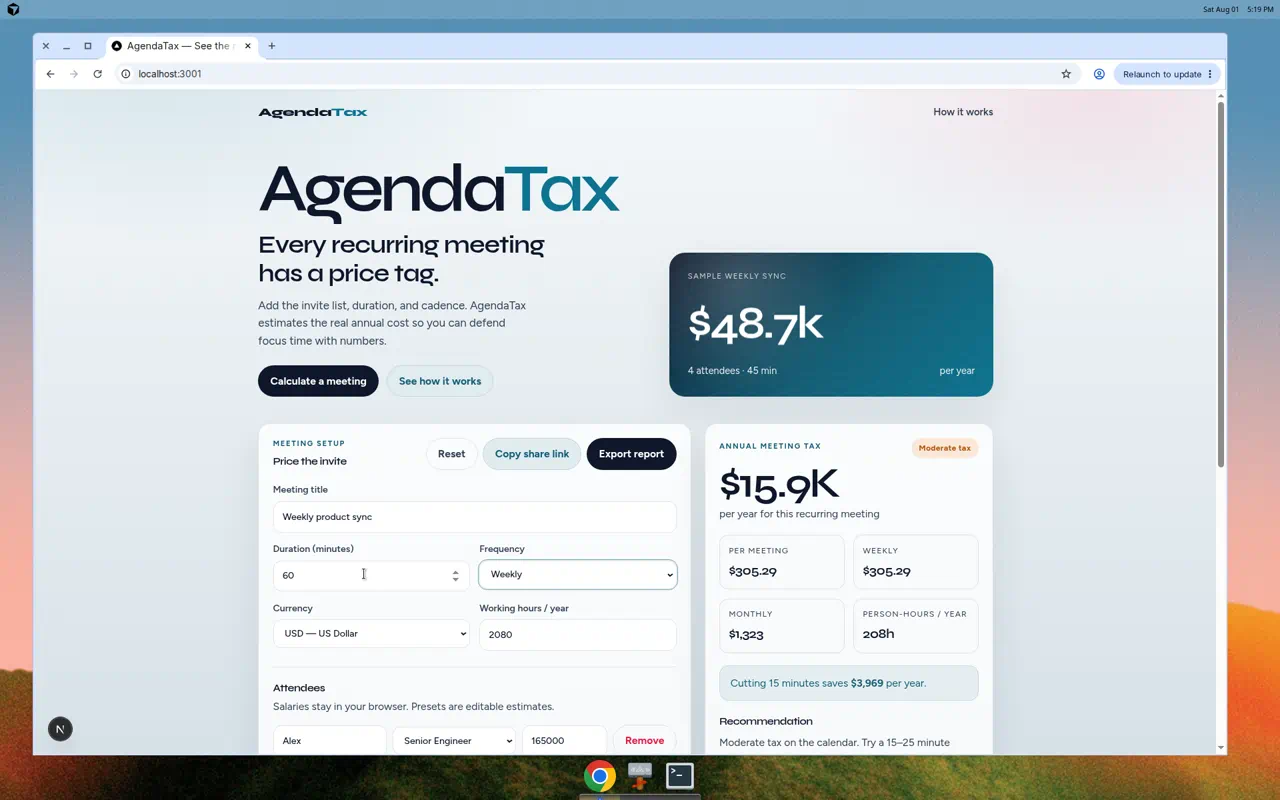
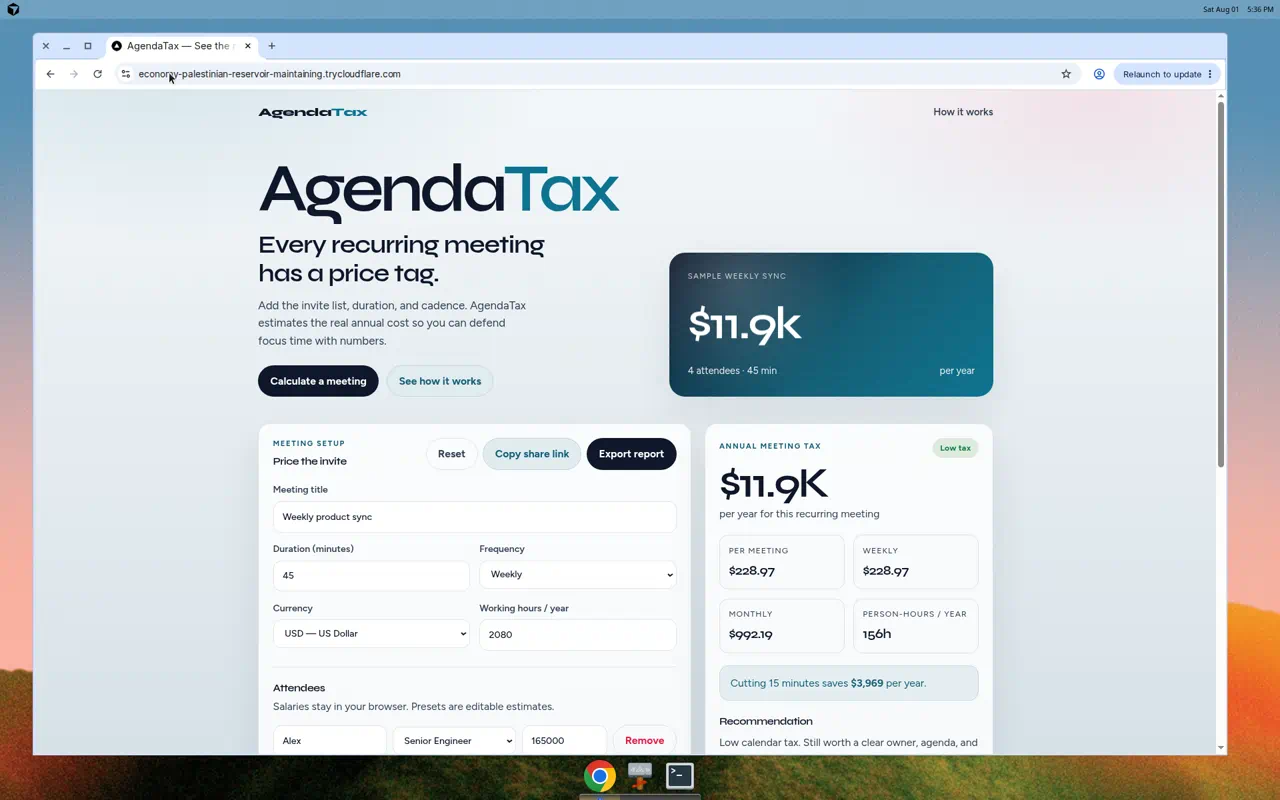
chore: finalize AgendaTax deploy docs and Pages workflow
Update live deployment URL, refresh screenshot, and publish static
builds to the gh-pages branch via GitHub Actions.

diff --git a/agendatax/next.config.ts b/agendatax/next.config.ts
@@ -1,6 +1,8 @@
 import type { NextConfig } from "next";
 
 const basePath = process.env.NEXT_PUBLIC_BASE_PATH?.replace(/\/$/, "") || "";
+const assetPrefix =
+  process.env.NEXT_PUBLIC_ASSET_PREFIX?.replace(/\/$/, "") || basePath || "";
 
 const nextConfig: NextConfig = {
   poweredByHeader: false,
@@ -9,7 +11,7 @@ const nextConfig: NextConfig = {
     ? {
         output: "export" as const,
         basePath: basePath || undefined,
-        assetPrefix: basePath || undefined,
+        assetPrefix: assetPrefix || undefined,
         images: { unoptimized: true },
       }
     : {}),

diff --git a/agendatax/README.md b/agendatax/README.md
@@ -4,7 +4,7 @@
 
 AgendaTax estimates the annual salary cost of a recurring meeting from attendee compensation, duration, and frequency — so teams can make calendar decisions with numbers, not vibes.
 
-![AgendaTax hero and calculator](./docs/screenshot.png)
+![AgendaTax hero and calculator](./docs/screenshot.webp)
 
 ## Problem Solved
 
@@ -62,9 +62,15 @@ See `.env.example`.
 
 ## Deployment URL
 
-Live: _pending deploy — will be updated after Vercel/GitHub Pages publish_
+Live: [https://economy-palestinian-reservoir-maintaining.trycloudflare.com](https://economy-palestinian-reservoir-maintaining.trycloudflare.com)
+
+Static artifacts are published to the [`gh-pages`](https://github.com/sudhev1881-eng/daily-builds/tree/gh-pages) branch. Once GitHub Pages is enabled for that branch, the durable project URL will be:
+
+[https://sudhev1881-eng.github.io/daily-builds/](https://sudhev1881-eng.github.io/daily-builds/)
 
 Repository: [https://github.com/sudhev1881-eng/daily-builds](https://github.com/sudhev1881-eng/daily-builds)
+
+CI: `.github/workflows/deploy-agendatax.yml`
 
 ## Project Structure
 
